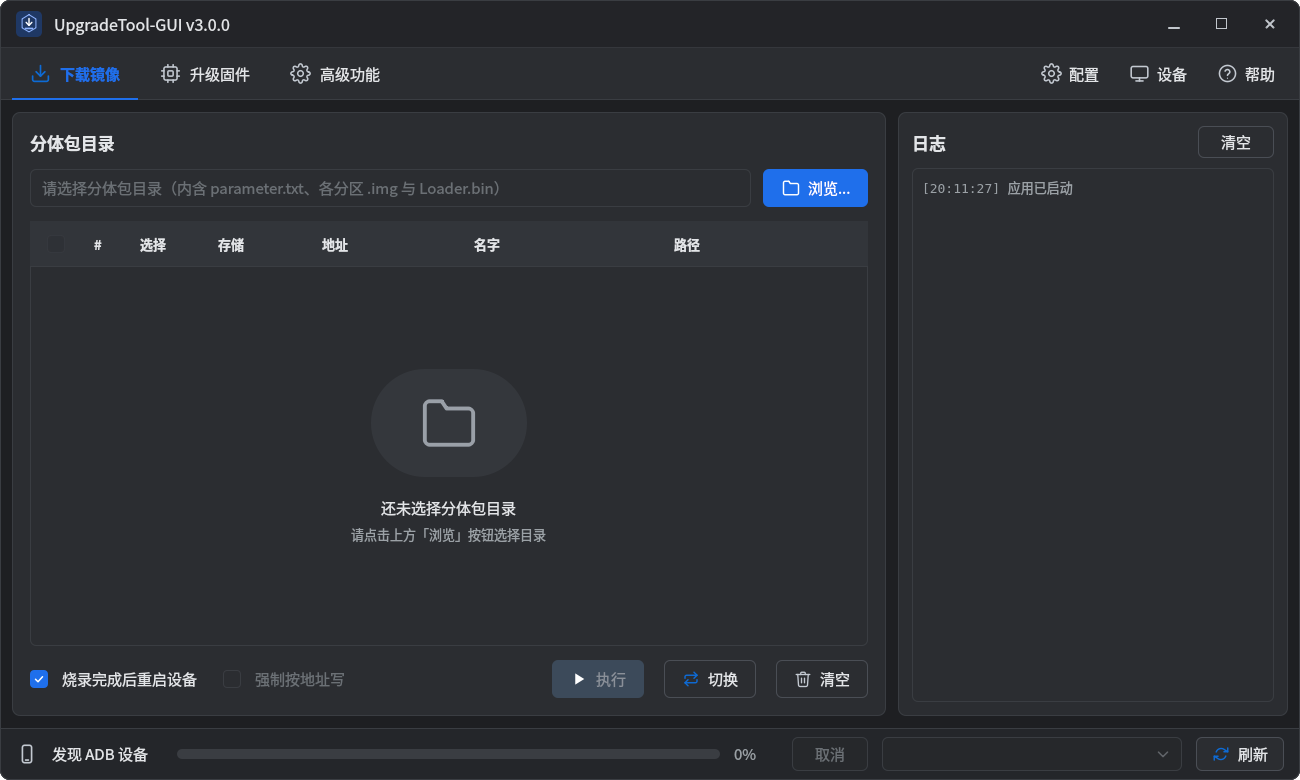
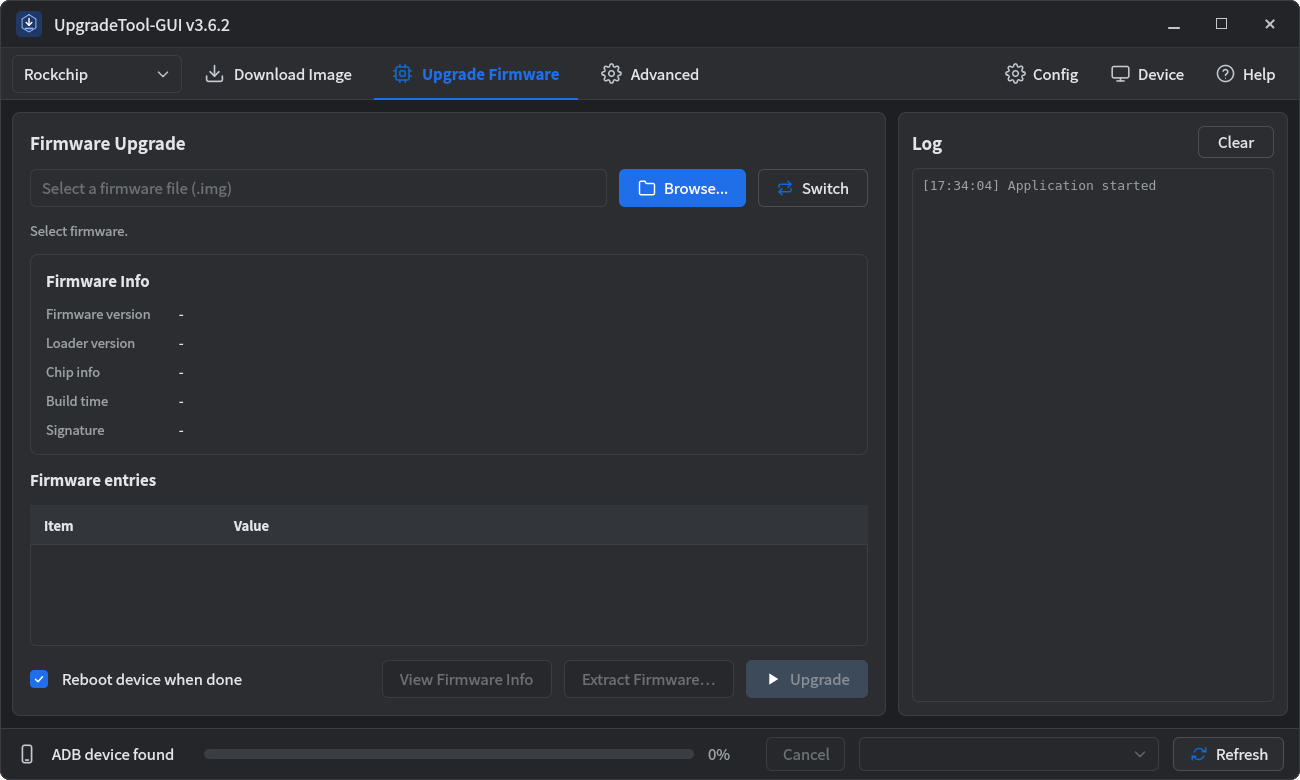
docs: rewrite README as bilingual and refresh English screenshots

diff --git a/README.md b/README.md
@@ -1,37 +1,37 @@
 # UpgradeTool-GUI
 
-瑞芯微与全志设备固件刷写工具，基于 Qt6 Quick/QML。瑞芯微支持 Loader / Maskrom，全志支持 FEL / FES。
+**English** | [中文](README.zh-CN.md)
 
-![浅色主题](docs/gui.png)
-![深色主题](docs/gui-dark.png)
+Firmware flashing tool for Rockchip (Loader / Maskrom) and Allwinner (FEL / FES) devices, built with Qt6 Quick/QML.
 
-## 功能
+![Light theme](docs/gui.png)
+![Dark theme](docs/gui-dark.png)
 
-- 整包固件升级、信息解析与解包。
-- Boot 下载、Loader 升级，按 `parameter.txt` 分区烧录镜像。
-- 设备、Flash、芯片、OTP、安全模式及分区表查询。
-- LBA 读写、扇区写入、块擦除、镜像导出。
-- 序列号读写、串口日志导出、GPT 生成。
-- 设备自动扫描、批量烧录、任务进度、取消与日志。
+## Features
 
-## 使用
+- Full firmware upgrade, info parsing, and unpacking.
+- Boot download and loader upgrade, flashing images by `parameter.txt` partitions.
+- Device, flash, chip, OTP, secure-mode, and partition-table queries.
+- LBA read/write, sector write, block erase, image export.
+- Serial number read/write, serial log export, GPT generation.
+- Automatic device scan, batch flashing, task progress, cancel, and logging.
 
-在顶部选择厂商，连接处于刷机模式的设备，在底部设备栏选择目标。批量刷写限同一厂商，按设备顺序执行。界面语言默认跟随系统，可在「配置 → 首选项…」切换到中文或 English。
+## Usage
 
-| 页面 | 操作 |
+Pick a vendor, connect a device in flashing mode, then select the target in the bottom device bar. Batch flashing is limited to one vendor and runs in device order. The UI language follows the system by default; switch between Chinese and English in **Config → Preferences…**.
+
+| Page | Action |
 |---|---|
-| 下载镜像 | 选择包含 `parameter.txt` 和镜像的目录，勾选分区后执行。自动匹配分区名与镜像文件，双击路径可手动指定。目录中的 Loader 显示在首行。 |
-| 升级固件 | 选择固件，确认芯片、版本等信息后升级。 |
-| 高级功能 | 查询设备信息、读写序列号、导出日志或镜像、擦除存储。 |
-| 配置 | 编辑配置、生成 GPT、安装 Linux 设备规则、切换主题。 |
+| Download Image | Select a directory containing `parameter.txt` and images, tick partitions, then run. Partition names are matched to image files; double-click a path to pick one manually. A Loader in the directory is shown in the first row. |
+| Upgrade Firmware | Select a firmware package and confirm chip, version, and other info before upgrading. |
+| Advanced | Query device info, read/write serial numbers, export logs or images, erase storage. |
+| Config | Edit config, generate GPT, install Linux device rules, switch theme. |
 
-全志工作区分为裸镜像刷写、固件刷写和高级功能；高级功能支持离线查看、解包、程序器镜像转换，以及在 FES 模式下重启设备。设备信息位于“设备”菜单。支持未加密 IMAGEWTY v1/v2/v3 的信息解析与解包，以及分区、保留用户数据、分区擦除和全擦四种刷写模式。默认全擦、开启校验、完成重启；校验失败会停止任务。按所选分区刷写仍会更新分区表和引导组件。
+Allwinner workspaces are bare-image flashing, firmware flashing, and advanced features. Advanced supports offline inspection, unpacking, programmer image conversion, and rebooting the device in FES mode; device info is under the **Device** menu. Unencrypted IMAGEWTY v1/v2/v3 parsing and unpacking are supported, with four flash modes: partition, keep user data, erase partition, and full erase (defaults: full erase, verification on, reboot when done; a failed verification stops the task).
 
-全志裸镜像与固件刷写页支持通过 ADB“切换”到 FEL，默认自动选择标准 `efex` 入口；识别到 T3 Buildroot（且具备 root 与 `devmem`）时自动改用兼容入口，也可手选“备选”强制指定。切换后检测目标 USB 端口确认结果，不会自动开始刷写。
+Allwinner bare-image and firmware pages can switch to FEL over ADB. The standard `efex` entry is used by default, a compatible T3 Buildroot entry is auto-detected, or you can force the alternative. After switching, the target USB port is checked to confirm the result; flashing does not start automatically. Bare-image flashing needs a board-matched IMAGEWTY boot firmware and always uses full erase, no verification, reboot when done. Image conversion supports SPI NOR, SD card, eMMC, SD NAND, and UFS, reads the DTB offset and secure-boot flag automatically, and needs no device.
 
-裸镜像刷写需要匹配板型的 IMAGEWTY 引导固件，固定全擦、不校验、完成重启。镜像转换支持 SPI NOR、SD 卡、eMMC、SD NAND、UFS，可自动读取 DTB 偏移与安全启动标记；无需连接设备。
-
-启动参数：
+Startup arguments:
 
 ```sh
 ./build/upgrade_tool_gui --firmware /path/to/update.img
@@ -39,27 +39,27 @@
 ./build/upgrade_tool_gui --vendor allwinner --firmware /path/to/allwinner.img
 ```
 
-`--vendor` 默认为 `rockchip`，可选 `allwinner`。瑞芯微 `--tab`：`0` 下载镜像、`1` 升级固件（默认）、`2` 高级功能；全志依次为裸镜像刷写、固件刷写、高级功能；`--firmware` 载入所选页面的固件包。`--lang` 默认为 `auto`（跟随系统），可选 `zh`、`en`。
+`--vendor` defaults to `rockchip`; the other value is `allwinner`. Rockchip `--tab`: `0` Download Image, `1` Upgrade Firmware (default), `2` Advanced; Allwinner uses bare-image flashing, firmware flashing, and advanced features in that order. `--firmware` loads a firmware package into the selected page. `--lang` defaults to `auto` (follow the system) and also accepts `zh` or `en`.
 
-### 设备权限
+### Device permissions
 
-**Linux**：在「配置」中安装 udev 规则，或执行：
+**Linux**: Install the udev rules from **Config**, or run:
 
 ```sh
 sudo scripts/install-udev.sh
 ```
 
-`.deb` 安装时会自动安装两种厂商规则。全志 USB ID 为 `1f3a:efe8`；如提示权限错误，安装规则后重新连接设备。设备栏显示 `Vid=0x2207,Pid=0x... Mode=Loader|Maskrom` 时，已识别设备。
+The `.deb` installs both vendor rule sets automatically. The Allwinner USB ID is `1f3a:efe8`; if you see a permission error, install the rules and reconnect the device. A device is recognized when the device bar shows `Vid=0x2207,Pid=0x... Mode=Loader|Maskrom`.
 
-**macOS**：无需另装 USB 驱动。可选安装 ADB，用于将 Android 设备切换到 Loader。
+**macOS**: No extra USB driver is needed. ADB is optional, to switch an Android device to Loader.
 
-**Windows**：使用 [Zadig](https://zadig.akeo.ie/) 为瑞芯微 VID `2207` 或全志 `1f3a:efe8` 设备安装 WinUSB 驱动。尚未在真实 Windows 环境验证。
+**Windows**: Use [Zadig](https://zadig.akeo.ie/) to install the WinUSB driver for Rockchip VID `2207` or Allwinner `1f3a:efe8` devices. Not yet verified on real Windows.
 
-## 构建
+## Build
 
-依赖 CMake 3.21.1+、C++11 编译器、Qt6（Core、Gui、Quick、QuickControls2）。libusb 通过子模块静态链接，无需单独安装。
+Requires CMake 3.21.1+, a C++11 compiler, and Qt6 (Core, Gui, Quick, QuickControls2). libusb is statically linked through a submodule; no separate install is needed.
 
-首次构建前拉取子模块：
+Fetch submodules before the first build:
 
 ```sh
 git submodule update --init --recursive
@@ -67,7 +67,7 @@ git submodule update --init --recursive
 
 ### Linux
 
-Debian / Ubuntu：
+Debian / Ubuntu:
 
 ```sh
 sudo apt install cmake g++ qt6-base-dev qt6-declarative-dev qt6-l10n-tools \
@@ -76,7 +76,7 @@ sudo apt install cmake g++ qt6-base-dev qt6-declarative-dev qt6-l10n-tools \
   qml6-module-qtqml-workerscript qt6-qpa-plugins
 ```
 
-SVG 插件按发行版安装 `qt6-svg-plugins` 或 `libqt6svg6`。
+Install the SVG plugin as `qt6-svg-plugins` or `libqt6svg6`, depending on the distribution.
 
 ```sh
 cmake -S . -B build
@@ -84,9 +84,9 @@ cmake --build build -j
 ./build/upgrade_tool_gui
 ```
 
-### macOS（Apple Silicon）
+### macOS (Apple Silicon)
 
-最低部署目标为 macOS 12，原瑞芯微功能已在 Qt 6.8.3、arm64 环境验证；新增全志功能尚未在 macOS 验证。将 `CMAKE_PREFIX_PATH` 替换为本机 Qt 路径：
+The minimum deployment target is macOS 12; the original Rockchip features are verified on Qt 6.8.3, arm64. Replace `CMAKE_PREFIX_PATH` with your local Qt path:
 
 ```sh
 cmake -S . -B build-macos -G Ninja \
@@ -98,54 +98,54 @@ open build-macos/upgrade_tool_gui.app
 
 ### Windows
 
-使用 Qt6 MinGW 工具链、CMake 和 Ninja，在对应 Qt MinGW 环境的 PowerShell 中运行：
+Using the Qt6 MinGW toolchain, CMake, and Ninja, run in the PowerShell of the matching Qt MinGW environment:
 
 ```powershell
 ./scripts/package_windows.ps1 -QtRoot C:/Qt/6.8.3/mingw_64
 ```
 
-产物位于 `build-windows/dist/UpgradeTool-GUI/`。Windows 构建和实机尚未验证。
+The output is in `build-windows/dist/UpgradeTool-GUI/`. Windows build and hardware are not yet verified.
 
-### 测试与打包
+### Tests and packaging
 
 ```sh
 cmake -S . -B build -DUPGRADE_TOOL_TESTS=ON
 cmake --build build -j
 ctest --test-dir build --output-on-failure
 
-# Linux：通过 Docker 构建 .deb，支持 Ubuntu 22.04 及更新版本
+# Linux: build a .deb via Docker, for Ubuntu 22.04 and newer
 scripts/package_deb.sh
 
-# macOS：生成独立应用和 DMG，产物位于 build-macos/dist/
+# macOS: build a standalone app and DMG; output in build-macos/dist/
 QT_ROOT="$HOME/Qt/6.8.3/macos" scripts/package_macos.sh
 ```
 
-macOS 打包需系统支持 `diskutil image create/attach`；应用使用 ad-hoc 签名，未经开发者签名或公证。
+macOS packaging requires system support for `diskutil image create/attach`; the app is ad-hoc signed, without developer signing or notarization.
 
-## 配置与日志
+## Configuration and logs
 
-`config.ini` 查找顺序：用户配置目录 → 可执行文件目录 → macOS 应用的 `Contents/Resources/`。在「配置」中保存后写入用户配置并立即生效。
+`config.ini` is searched in order: user config directory → executable directory → the macOS app's `Contents/Resources/`. Saving in **Config** writes to the user config and takes effect immediately.
 
-Linux 默认路径：
+Default Linux paths:
 
-- 配置：`~/.config/upgrade_tool/config.ini`，遵循 `XDG_CONFIG_HOME`。
-- 日志：`~/.local/state/upgrade_tool/log/`，遵循 `XDG_STATE_HOME`。
+- Config: `~/.config/upgrade_tool/config.ini`, following `XDG_CONFIG_HOME`.
+- Logs: `~/.local/state/upgrade_tool/log/`, following `XDG_STATE_HOME`.
 
-配置格式为 `键=值`，以 `#` 开头的行为注释。仓库中的配置全部注释，使用默认行为。
+The config format is `key=value`, with lines starting with `#` as comments. The repository config is fully commented and uses default behavior.
 
-| 键 | 含义 |
+| Key | Meaning |
 |---|---|
-| `lba_parity` | LBA 传输奇偶校验 |
-| `rb_check_off` | 关闭写入回读校验 |
-| `nor_single_idb` | NOR 单份 IDB |
-| `log_off` | 关闭日志 |
-| `stdout_buffer_off` | 关闭 stdout 缓冲 |
-| `force_data_band` | 强制数据带宽 |
-| `log_dir` | 日志目录 |
-| `firmware` | 未保存最近固件时的默认路径 |
-| `loader` | 操作未指定 Loader 时的默认路径 |
-| `device` | 兼容保留，目标设备在设备栏选择 |
+| `lba_parity` | LBA transfer parity check |
+| `rb_check_off` | Disable write read-back verification |
+| `nor_single_idb` | Single IDB for NOR |
+| `log_off` | Disable logging |
+| `stdout_buffer_off` | Disable stdout buffering |
+| `force_data_band` | Force data bandwidth |
+| `log_dir` | Log directory |
+| `firmware` | Default path when no recent firmware is saved |
+| `loader` | Default path when no loader is specified for an operation |
+| `device` | Kept for compatibility; the target device is chosen in the device bar |
 
-## 许可
+## License
 
-协议与设备核心派生自 `rockchip-linux/rkdeveloptool`，遵循 GPL-2.0，见 [lib/license.txt](lib/license.txt)。内置 libusb 遵循 LGPL-2.1。全志功能参考 OpenixCLI，协议核心来自 libefex，均遵循 MIT，来源与许可见 [core/allwinner/README.md](core/allwinner/README.md) 和 [third_party/libefex/README.md](third_party/libefex/README.md)。
+The protocol and device core are derived from `rockchip-linux/rkdeveloptool` under GPL-2.0; see [lib/license.txt](lib/license.txt). The bundled libusb is under LGPL-2.1. Allwinner support references OpenixCLI, with the protocol core from libefex, both under MIT; see [core/allwinner/README.md](core/allwinner/README.md) and [third_party/libefex/README.md](third_party/libefex/README.md).

diff --git a/README.zh-CN.md b/README.zh-CN.md
@@ -1,0 +1,151 @@
+# UpgradeTool-GUI
+
+[English](README.md) | **中文**
+
+瑞芯微（Loader / Maskrom）与全志（FEL / FES）设备固件刷写工具，基于 Qt6 Quick/QML。
+
+![浅色主题](docs/gui.png)
+![深色主题](docs/gui-dark.png)
+
+## 功能
+
+- 整包固件升级、信息解析与解包。
+- Boot 下载、Loader 升级，按 `parameter.txt` 分区烧录镜像。
+- 设备、Flash、芯片、OTP、安全模式及分区表查询。
+- LBA 读写、扇区写入、块擦除、镜像导出。
+- 序列号读写、串口日志导出、GPT 生成。
+- 设备自动扫描、批量烧录、任务进度、取消与日志。
+
+## 使用
+
+在顶部选择厂商，连接处于刷机模式的设备，在底部设备栏选择目标。批量刷写限同一厂商，按设备顺序执行。界面语言默认跟随系统，可在「配置 → 首选项…」切换中英文。
+
+| 页面 | 操作 |
+|---|---|
+| 下载镜像 | 选择包含 `parameter.txt` 和镜像的目录，勾选分区后执行。分区名自动匹配镜像文件，双击路径可手动指定；目录中的 Loader 显示在首行。 |
+| 升级固件 | 选择固件，确认芯片、版本等信息后升级。 |
+| 高级功能 | 查询设备信息、读写序列号、导出日志或镜像、擦除存储。 |
+| 配置 | 编辑配置、生成 GPT、安装 Linux 设备规则、切换主题。 |
+
+全志工作区分为裸镜像刷写、固件刷写和高级功能。高级功能支持离线查看、解包、程序器镜像转换，以及在 FES 模式下重启设备；设备信息位于“设备”菜单。支持未加密 IMAGEWTY v1/v2/v3 的信息解析与解包，含分区、保留用户数据、分区擦除和全擦四种刷写模式（默认全擦、开启校验、完成重启，校验失败停止任务）。
+
+全志裸镜像与固件刷写页可通过 ADB 切换到 FEL，默认使用标准 `efex` 入口，识别到 T3 Buildroot 时自动改用兼容入口，也可强制指定备选入口。切换后检测目标 USB 端口确认结果，不会自动开始刷写。裸镜像刷写需匹配板型的 IMAGEWTY 引导固件，固定全擦、不校验、完成重启。镜像转换支持 SPI NOR、SD 卡、eMMC、SD NAND、UFS，可自动读取 DTB 偏移与安全启动标记，无需连接设备。
+
+启动参数：
+
+```sh
+./build/upgrade_tool_gui --firmware /path/to/update.img
+./build/upgrade_tool_gui --tab 0 --image-dir /path/to/images
+./build/upgrade_tool_gui --vendor allwinner --firmware /path/to/allwinner.img
+```
+
+`--vendor` 默认为 `rockchip`，可选 `allwinner`。瑞芯微 `--tab`：`0` 下载镜像、`1` 升级固件（默认）、`2` 高级功能；全志依次为裸镜像刷写、固件刷写、高级功能。`--firmware` 载入所选页面的固件包。`--lang` 默认为 `auto`（跟随系统），可选 `zh`、`en`。
+
+### 设备权限
+
+**Linux**：在「配置」中安装 udev 规则，或执行：
+
+```sh
+sudo scripts/install-udev.sh
+```
+
+`.deb` 安装时会自动安装两种厂商规则。全志 USB ID 为 `1f3a:efe8`；如提示权限错误，安装规则后重新连接设备。设备栏显示 `Vid=0x2207,Pid=0x... Mode=Loader|Maskrom` 时，已识别设备。
+
+**macOS**：无需另装 USB 驱动。可选安装 ADB，用于将 Android 设备切换到 Loader。
+
+**Windows**：使用 [Zadig](https://zadig.akeo.ie/) 为瑞芯微 VID `2207` 或全志 `1f3a:efe8` 设备安装 WinUSB 驱动。尚未在真实 Windows 环境验证。
+
+## 构建
+
+依赖 CMake 3.21.1+、C++11 编译器、Qt6（Core、Gui、Quick、QuickControls2）。libusb 通过子模块静态链接，无需单独安装。
+
+首次构建前拉取子模块：
+
+```sh
+git submodule update --init --recursive
+```
+
+### Linux
+
+Debian / Ubuntu：
+
+```sh
+sudo apt install cmake g++ qt6-base-dev qt6-declarative-dev qt6-l10n-tools \
+  qml6-module-qtquick qml6-module-qtquick-controls qml6-module-qtquick-layouts \
+  qml6-module-qtquick-templates qml6-module-qtquick-window \
+  qml6-module-qtqml-workerscript qt6-qpa-plugins
+```
+
+SVG 插件按发行版安装 `qt6-svg-plugins` 或 `libqt6svg6`。
+
+```sh
+cmake -S . -B build
+cmake --build build -j
+./build/upgrade_tool_gui
+```
+
+### macOS（Apple Silicon）
+
+最低部署目标为 macOS 12，原瑞芯微功能已在 Qt 6.8.3、arm64 环境验证。将 `CMAKE_PREFIX_PATH` 替换为本机 Qt 路径：
+
+```sh
+cmake -S . -B build-macos -G Ninja \
+  -DCMAKE_PREFIX_PATH="$HOME/Qt/6.8.3/macos" \
+  -DCMAKE_OSX_ARCHITECTURES=arm64
+cmake --build build-macos --parallel
+open build-macos/upgrade_tool_gui.app
+```
+
+### Windows
+
+使用 Qt6 MinGW 工具链、CMake 和 Ninja，在对应 Qt MinGW 环境的 PowerShell 中运行：
+
+```powershell
+./scripts/package_windows.ps1 -QtRoot C:/Qt/6.8.3/mingw_64
+```
+
+产物位于 `build-windows/dist/UpgradeTool-GUI/`。Windows 构建和实机尚未验证。
+
+### 测试与打包
+
+```sh
+cmake -S . -B build -DUPGRADE_TOOL_TESTS=ON
+cmake --build build -j
+ctest --test-dir build --output-on-failure
+
+# Linux：通过 Docker 构建 .deb，支持 Ubuntu 22.04 及更新版本
+scripts/package_deb.sh
+
+# macOS：生成独立应用和 DMG，产物位于 build-macos/dist/
+QT_ROOT="$HOME/Qt/6.8.3/macos" scripts/package_macos.sh
+```
+
+macOS 打包需系统支持 `diskutil image create/attach`；应用使用 ad-hoc 签名，未经开发者签名或公证。
+
+## 配置与日志
+
+`config.ini` 查找顺序：用户配置目录 → 可执行文件目录 → macOS 应用的 `Contents/Resources/`。在「配置」中保存后写入用户配置并立即生效。
+
+Linux 默认路径：
+
+- 配置：`~/.config/upgrade_tool/config.ini`，遵循 `XDG_CONFIG_HOME`。
+- 日志：`~/.local/state/upgrade_tool/log/`，遵循 `XDG_STATE_HOME`。
+
+配置格式为 `键=值`，以 `#` 开头的行为注释。仓库中的配置全部注释，使用默认行为。
+
+| 键 | 含义 |
+|---|---|
+| `lba_parity` | LBA 传输奇偶校验 |
+| `rb_check_off` | 关闭写入回读校验 |
+| `nor_single_idb` | NOR 单份 IDB |
+| `log_off` | 关闭日志 |
+| `stdout_buffer_off` | 关闭 stdout 缓冲 |
+| `force_data_band` | 强制数据带宽 |
+| `log_dir` | 日志目录 |
+| `firmware` | 未保存最近固件时的默认路径 |
+| `loader` | 操作未指定 Loader 时的默认路径 |
+| `device` | 兼容保留，目标设备在设备栏选择 |
+
+## 许可
+
+协议与设备核心派生自 `rockchip-linux/rkdeveloptool`，遵循 GPL-2.0，见 [lib/license.txt](lib/license.txt)。内置 libusb 遵循 LGPL-2.1。全志功能参考 OpenixCLI，协议核心来自 libefex，均遵循 MIT，来源与许可见 [core/allwinner/README.md](core/allwinner/README.md) 和 [third_party/libefex/README.md](third_party/libefex/README.md)。
